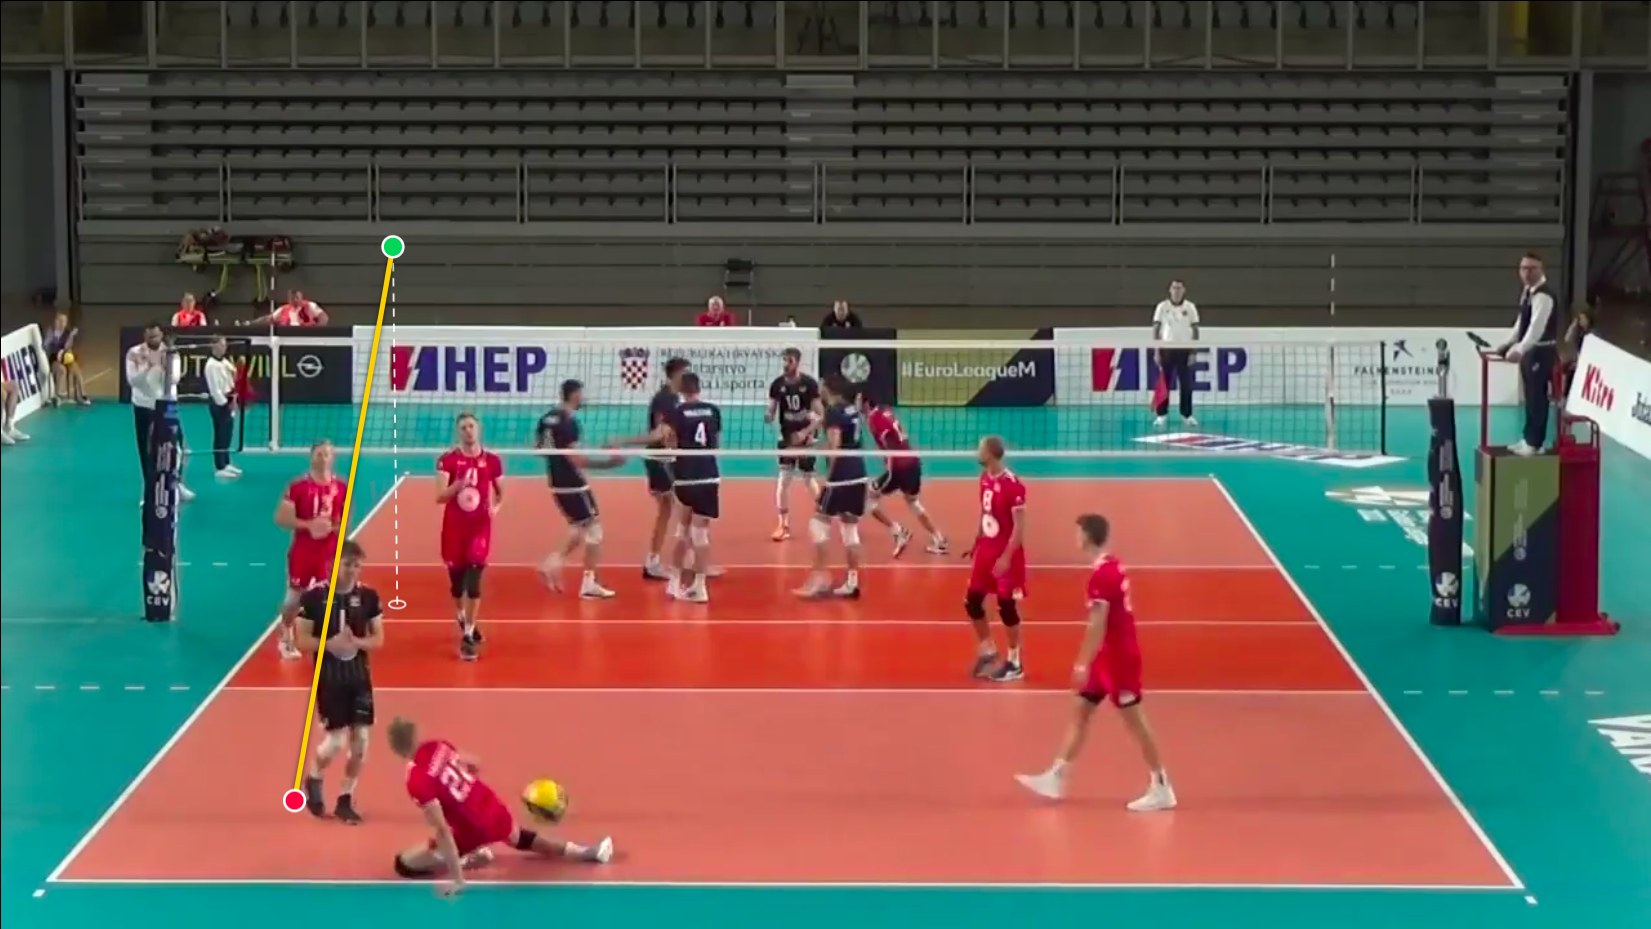
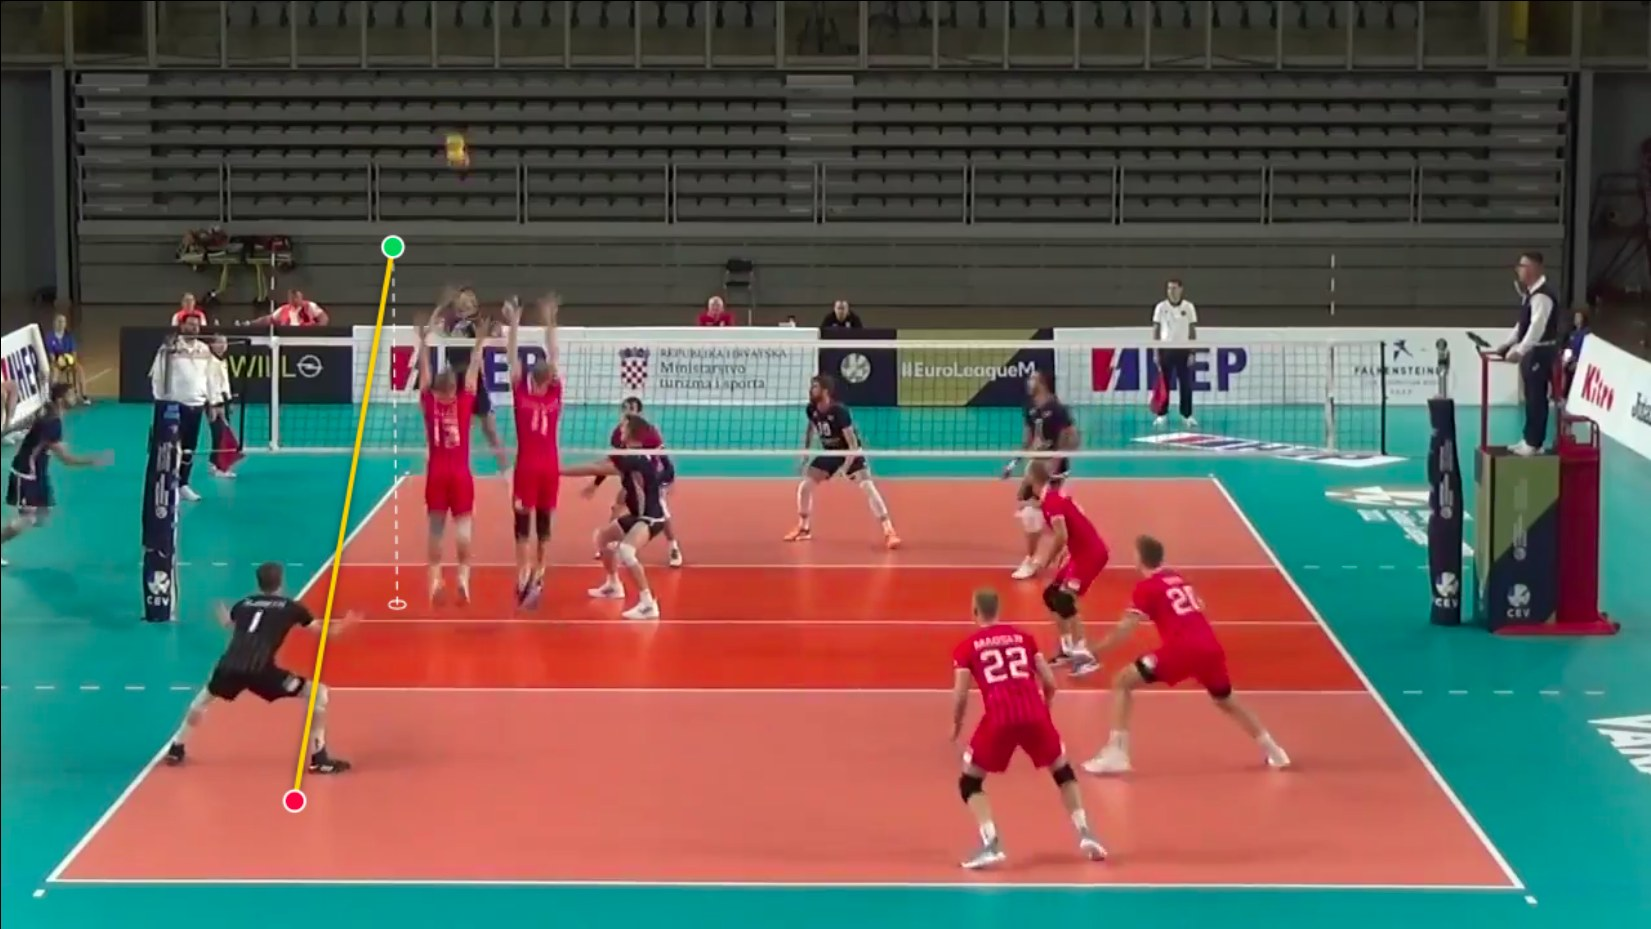
Product site: flight, zones and serve shots at the hit
Flight and zones now pause as the attack is hit (455.5 s) rather than
on the dig after it, and serve paths as the server hits the ball
(1013.0 s) rather than before the serve.

diff --git a/site/README.md b/site/README.md
@@ -13,7 +13,7 @@ Both share `site.css` and `site.js` (the court layer tabs). Open either file in 
 
 ## Taking screenshots again
 
-The court tab shots are frames of the source video, paused at a chosen time rather than at a scout time (those are to the second): landings and cones at 873.25 s (S1 09-09, #7 attack X5), flight and zones at 457.5 s (S1 01-02, #11 attack V6), serve paths at 1011.0 s (S1 12-09, #11 serve). Shoot them with only the real match in the project, so the made-up hero matches stay out of the heatmaps.
+The court tab shots are frames of the source video, paused at a chosen time rather than at a scout time (those are to the second): landings and cones at 873.25 s (S1 09-09, #7 attack X5), flight and zones at 455.5 s (S1 01-02, #11 attack V6), serve paths at 1013.0 s (S1 12-09, #11 serve). Shoot them with only the real match in the project, so the made-up hero matches stay out of the heatmaps.
 
 `source/shoot-2026-11/` holds the scripts. Start the built app with its own library and profile so your own settings stay untouched:
 
